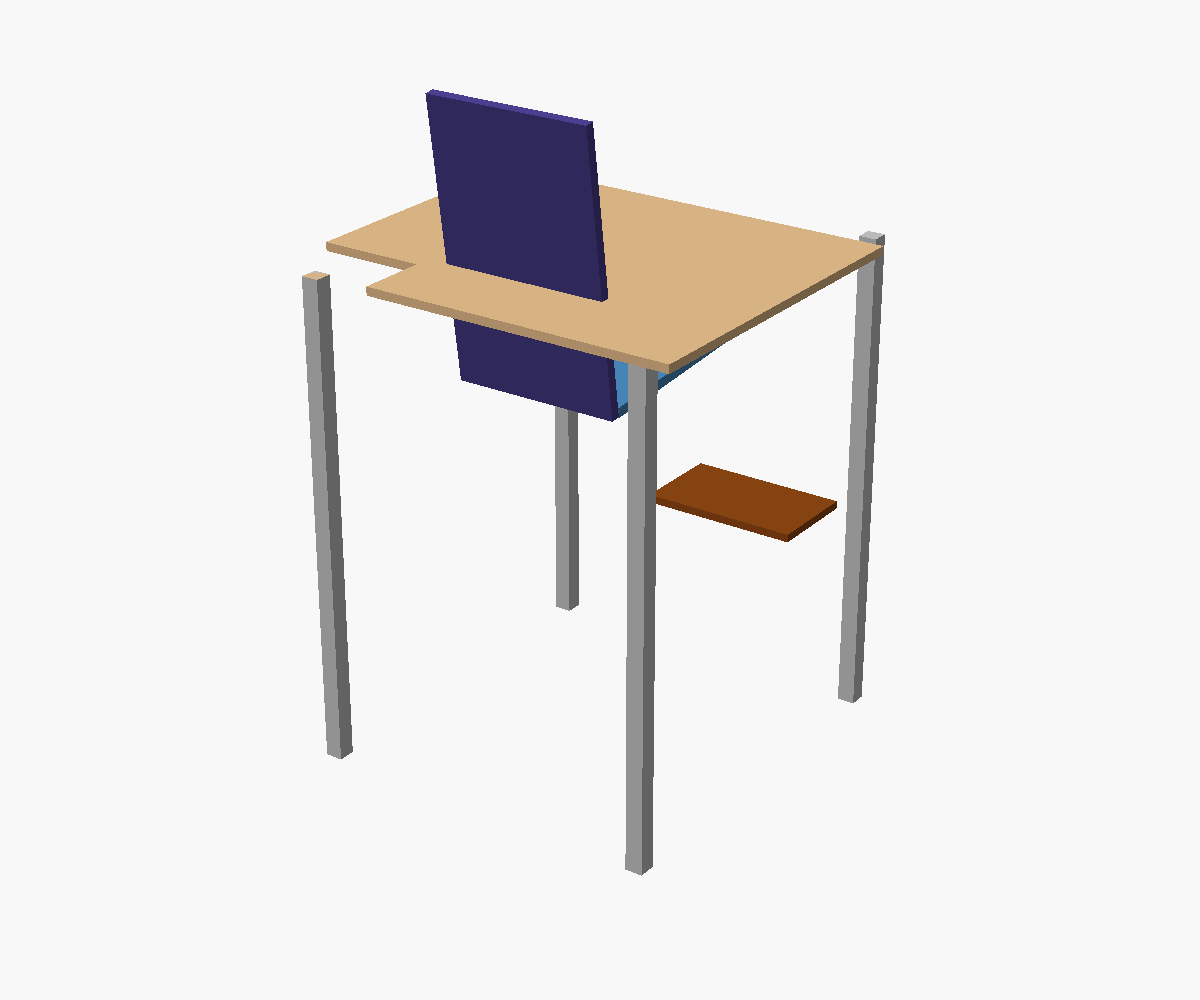
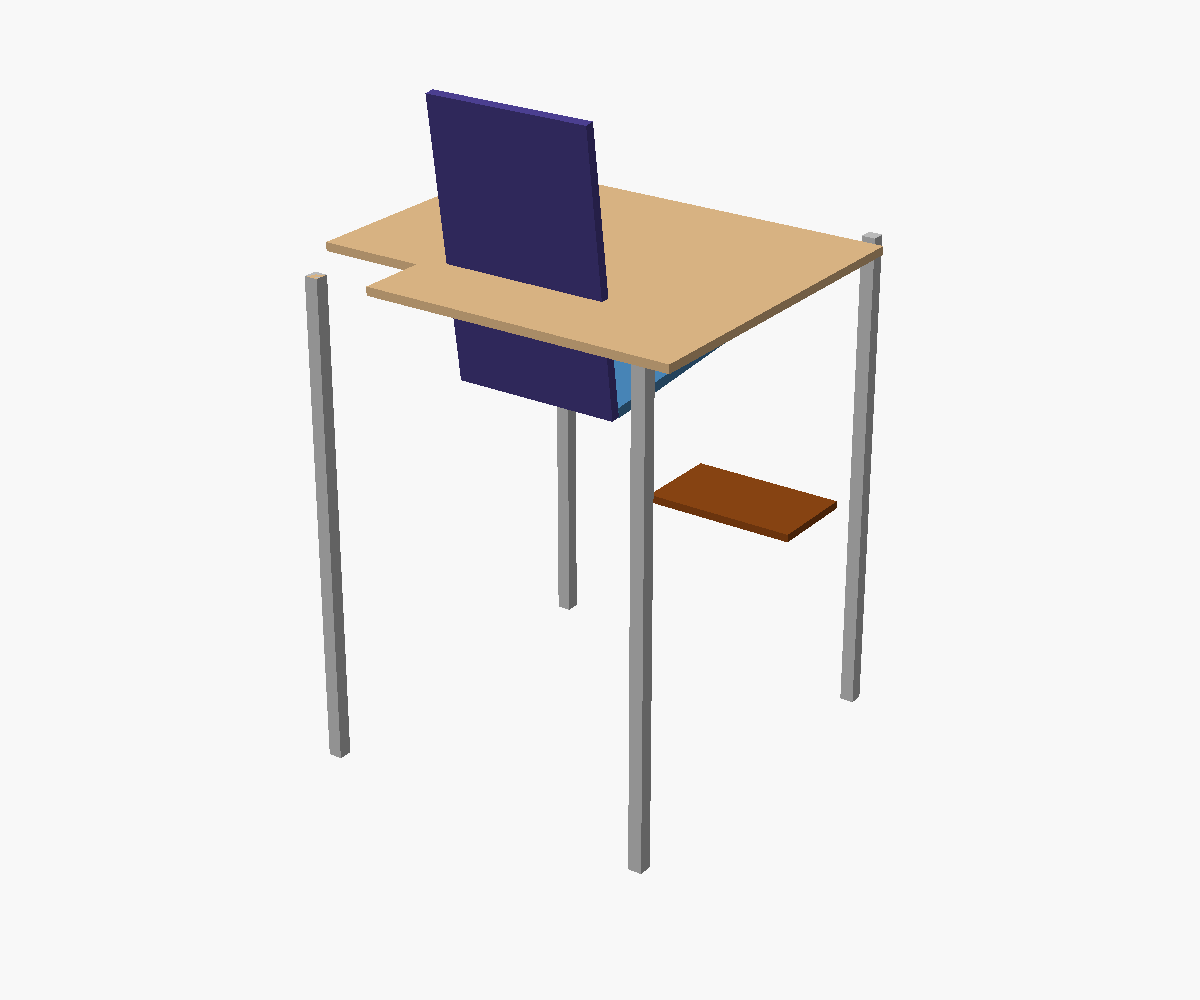
Add .scad conventions and adaptive-highchair research project

diff --git a/adaptive-highchair/OFF_THE_SHELF.md b/adaptive-highchair/OFF_THE_SHELF.md
@@ -1,0 +1,67 @@
+# Off-the-shelf parts: adjustment hardware and strap material
+
+Research date: 2026-11-24 (Camoufox). Goal: avoid printing structural spans and
+bespoke hardware. Printed parts should be **brackets, collars, sliders and end
+caps** around stock that can be bought at a hardware store or Amazon.
+
+## Frame options
+
+| Option | Stock / hardware | Where to buy | Adjustment | Notes |
+|---|---|---|---|---|
+| **2020 T-slot extrusion (recommended)** | 20 × 20 mm aluminium extrusion, M5 sliding nuts + bolts, corner brackets | Amazon, Grainger, McMaster ("80/20-compatible"), local metal suppliers | Unlimited bolt positioning along slots — seat height/depth, footrest reach, back and tray height | No tube-fit tolerances; cheap generic extrusion and hardware kits. Printed plates bolt into the slots. Downside: many small fasteners, slot nuts can spin, extrusion is heavier than tube. |
+| 80/20 10-Series | 1" × 1" (25 × 25 mm) T-slot profile, matching nuts/brackets | [Grainger](https://www.grainger.com/product/80-20-T-Slot-Framing-Extrusion-10-2RCP9), [McMaster](https://www.mcmaster.com/80/20-compatible-t-slotted-framing), Amazon | Same as above, more rigid | Better brand support, higher cost. Use if generic 2020 slots prove sloppy. |
+| Telescoping square tube | Outer: [1" SQ × 7/8" ID × 0.063" wall 6063-T52 aluminium](https://www.speedymetals.com/pc-4680-8379-1-sq-wall-sq-tube-6063-t52-aluminum.aspx); inner: 7/8" OD tube; [push-button tube locks](https://www.mcmaster.com/products/push-button-telescoping-tube-locks) or [quick-release pins](https://www.mcmaster.com/products/pins/pin-type~quick-release/) | Metal suppliers, McMaster, Amazon | Discrete steps at drilled hole spacing (25–50 mm) | Fewer parts and lighter, but fit is **not guaranteed**: [Speedy Metals](https://www.speedymetals.com/Information/Telescoping.html) warns OD/ID tolerances and internal weld seams can block telescoping; allow ≥0.010" clearance and expect to sand/finish the inner tube. Printed shims/collars absorb the remaining slop. |
+| Slip-on pipe fittings | [Kee Klamp](https://www.keesafety.com/safety-railings/kee-klamp/fittings) (galvanised cast iron) / [Kee Lite](https://www.keesafety.com/safety-railings/kee-lite/fittings) (aluminium) + hardware-store pipe | Kee Safety distributors, industrial suppliers | Set at assembly; not meant for frequent resizing | Fast, rigid, no welding. Good for the static lower frame; use slotted printed plates where adjustment is needed. |
+
+**Recommendation:** 2020 extrusion for the vertical posts and cross rails, with
+printed clamp plates and M5 hardware. It turns "size adjustment" into loosening
+a bolt and sliding a bracket — no drilling, no tolerance-fitting, no custom
+parts beyond the printed interface. Keep the telescoping-tube option as a
+fallback if weight or cost dominates.
+
+## Size-adjustment features to build
+
+- **Seat height:** post-mounted seat bracket slides on the vertical extrusion;
+  target 520–570 mm above floor (from `RESEARCH.md`).
+- **Seat depth / width:** printed insert pans or sliding side plates; 8–12"
+  usable width, 9–12" depth.
+- **Footrest:** separate slider on the front posts, adjustable in height
+  (110–380 mm below seat) and reach.
+- **Back:** vertical slot carrier, 380 mm minimum height above seat, with
+  lateral supports repositionable 140–355 mm apart.
+- **Tray:** boom or arm brackets with height adjustment; tray is flat stock,
+  not a large print.
+- **Tilt / recline:** printed slotted arc plate + M5 bolt, 15° forward to
+  25° back as the target envelope.
+- **Reusable hardware:** M5 T-nuts/bolts, 1/4" quick-release pins with lanyards,
+  Nyloc nuts on pivot points.
+
+## Strap material
+
+| Material | Properties | Availability | Use here |
+|---|---|---|---|
+| **1" nylon webbing** | Highest strength of the common webbings (~3× polypropylene), excellent abrasion resistance and shock absorption; absorbs water and stretches slightly when wet; UV degrades over time | [Walmart kit: 6 yd × 1" webbing, 6 side-release buckles, 12 tri-glides, 6 D-rings, ~$15](https://www.walmart.com/ip/Buckles-Strap-1-Inch-Nylon-Webbing-Straps-6-Yards-Quick-Side-Release-Plastic-Buckles-Dual-Adjustable-6-Pack-Tri-Glide-Slide-Clip-12-PCS-Metal-D-Rings/13076257682), Amazon equivalents ([6K+/month sold](https://www.amazon.com/side-release-buckle-1-inch/s?k=side+release+buckle+1+inch)) | Restraint webbing and high-wear straps. 25 mm width matches the 1" buckle ecosystem. |
+| Polypropylene webbing | Lighter, water-resistant/buoyant, UV-stable, low stretch; lower strength and poorer abrasion resistance | Same kits and fabric stores | Non-critical straps: tray retention, footrest, storage. |
+| Polyester seatbelt webbing | Low stretch, good UV resistance, wide (2") and common | Auto parts / Amazon | Pelvic or lap belt if a wider, lower-stretch strap is wanted. |
+| **Universal 5-point high-chair harness** | Complete, adjustable, washable replacement belt; widely compatible with Graco and most 5-point chairs | [Amazon search](https://www.amazon.com/s?k=5+point+harness+straps), baby-gear retailers | **Preferred for the actual restraint.** Buying a finished harness avoids relying on DIY stitching and untested buckles. |
+
+Material comparison source: [National Webbing](https://www.nationalwebbing.com/nylon-webbing-articles/nylon-webbing/choosing-between-polypropylene-and-nylon-webbing-96.html)
+(nylon ~3× stronger, better abrasion/shock; polypropylene better in water/UV,
+lighter, lower stretch).
+
+## Safety / verification still required
+
+- A webbing kit or buckle is **not** a certified child restraint. Use a
+  commercial replacement harness for anything beyond a fit prototype.
+- Printed clamp plates and slot nuts need proof-load testing; T-slot joint
+  strength depends on profile, nut and bolt torque.
+- Check strap width against printed slot geometry (25 mm nominal, with
+  clearance) before cutting.
+- Keep all harness/pivot hardware captured (Nyloc, washers, lanyards).
+
+## Next actions
+
+1. Price 2020 extrusion + M5 kit locally; confirm 25 mm webbing fits the printed slots.
+2. Choose the commercial harness to design anchor geometry around.
+3. Add `FRAME_PROFILE = 20` and slot/pitch parameters to `params.scad`.
+4. Prototype one printed T-slot clamp plate and one tilt plate before the full set.

diff --git a/README.md b/README.md
@@ -1,35 +1,13 @@
 # 3D Printing
 
-OpenSCAD-first repository for 3D-printable designs. Source of truth is `.scad`
-(or a parametric Python builder where the geometry is procedural); STL/3MF files
-are build artifacts kept alongside the source so parts can be printed without a
-rebuild.
-
-## Projects
-
-| Project | What it is | Print files |
-|---|---|---|
-| [`adaptive-highchair/`](adaptive-highchair/) | Parametric adaptive high-chair concept (research/blockout) | — (render only) |
-| [`hex-ramp/`](hex-ramp/) | 18 in half-ramp lightened with a tileable hex through-hole lattice | `ramp_half_hex.stl`, `ramp_half_hex.3mf` |
-| [`hex-ramp-clip/`](hex-ramp-clip/) | Two-peg seam clip that joins two 228.6 mm hex ramp halves into the full 18 in ramp | `stl/hex_ramp_clip_{tight,medium,loose}.stl` |
-| [`fishtank-gantry/`](fishtank-gantry/) | Rim-mounted gantry that carries a float valve and siphon hose over a fish tank | `fishtank-gantry.3mf`, `stl/*.stl` |
-| [`rocket-shelf/`](rocket-shelf/) | Two-part magnetic shelf (body + magnet-pocket shelf) derived from the Rocket Shelf System | `stl/ref_obj*.stl` (reference meshes) |
-| [`rocket-toniebox-holder/`](rocket-toniebox-holder/) | Replacement magnet discs (Ø36 × 2.8 mm) for the Rocket Toniebox holder | `discs_magnet.stl`, `rocket-toniebox-holder.3mf` |
-| [`multiboard-mm/`](multiboard-mm/) | Stacked multi-material MultiBoard print process + interface geometry | `interface_0p2.stl` |
-| [`fan-adapter-80-to-72x28/`](fan-adapter-80-to-72x28/) | 80 mm case fan → 72 × 28 mm right-angle duct adapter | `fixed/fan_adapter_fixed.stl`, `handoff/fan_adapter_light.stl` |
-| [`fan-adapter-to-rook/`](fan-adapter-to-rook/) | Self-contained handoff bundle of the final fan-adapter files | `stl/fan_adapter.stl` |
-| [`siphon-strainer/`](siphon-strainer/) | Threaded siphon strainer and tube adapters | `stl/strainer-nosupport.stl`, `stl/adapter-threaded-*.stl` |
+OpenSCAD-first repository for 3D-printable designs. Source of truth is `.scad`;
+STL/3MF files are build artifacts.
 
 ## Layout
 
 ```
 templates/            starter .scad files for new parts
-scripts/              repository tooling (project import)
-<project-name>/       one directory per project, lowercase-hyphenated
-  README.md           what it is, how it prints, how to rebuild
-  *.scad              parametric source
-  *.py                procedural build / analysis scripts
-  stl/, preview/      exported meshes and renders
+adaptive-highchair/   parametric adaptive high-chair project
 ```
 
 ## Conventions
@@ -40,12 +18,6 @@ scripts/              repository tooling (project import)
 - Parameters use `snake_case`; named constants use `UPPER_SNAKE_CASE`.
 - Export STLs only after the design renders cleanly (`F6`). Do not hand-edit
   STLs.
-- Commit source **and** the final print-ready `.stl`/`.3mf`. Do not commit
-  Bambu Studio build output (`build/`, `*.gcode`, `*.gcode.3mf`), slicing
-  intermediates, or extracted 3MF trees — see `.gitignore`.
-- If a design is derived from a downloaded model, say so in the project README
-  and record the original file name; do not commit third-party source meshes
-  unless the licence allows it.
 - Safety-critical projects carry a prominent scope/disclaimer note in their
   README. A rendered model is not a tested product.
 
@@ -53,13 +25,3 @@ scripts/              repository tooling (project import)
 
 - [OpenSCAD](https://openscad.org/) (stable or snapshot)
 - Optional: `openscad -o part.stl part.scad` for headless export
-- Bambu Studio for slicing; the CLI (`--slice 1 --outputdir …`) is enough for
-  headless verification
-
-## Adding a project
-
-See [`AGENTS.md`](AGENTS.md) for the checklist, or run:
-
-```sh
-scripts/import-project.sh ~/opencode-sessions/my-new-part
-```

diff --git a/adaptive-highchair/DESIGN_NOTES.md b/adaptive-highchair/DESIGN_NOTES.md
@@ -18,8 +18,12 @@
 
 ## Architecture
 
-1. **Frame** — square tube (planned 25 mm), joined by printed clamp collars.
-   Keeps printed volume small and avoids printing long structural spans.
+Revised 2026-11-24 after `OFF_THE_SHELF.md` research: the frame stock is now
+**20 × 20 mm T-slot extrusion** with M5 sliding nuts, not welded square tube.
+Size changes become bolt repositioning instead of drilling or tube fitting.
+
+1. **Frame** — off-the-shelf 2020 extrusion posts and rails, joined by printed
+   clamp plates. Keeps printed volume small and avoids printing long spans.
 2. **Seat module** — printed pan with slots for depth and width inserts;
    pivots on the frame for tilt.
 3. **Back module** — printed panel carrier with vertical slots for back
@@ -32,11 +36,12 @@
 
 ## Open questions
 
-- Which tube/wood stock size is available locally?
+- Confirm local supply and price of 2020 extrusion + M5 sliding-nut kits.
+- Which commercial 5-point harness to design the anchors around (25 mm webbing).
 - Target growth range: 6–36 months only, or extend to Rifton-style paediatric
   sizing?
 - Folding/stacking needed, or static frame acceptable?
-- Harness hardware source and required proof-load factor.
+- Required proof-load factor for T-slot joints and printed clamp plates.
 - Print material: PETG for brackets vs. PA/GF for load-bearing clamps.
 
 ## Next steps

diff --git a/adaptive-highchair/README.md b/adaptive-highchair/README.md
@@ -12,6 +12,7 @@ off-the-shelf tube/wood stock, rather than a fully printed chair.
 ## Files
 
 - `RESEARCH.md` — commercial product specs and extracted design inputs
+- `OFF_THE_SHELF.md` — frame hardware, size-adjustment parts, strap materials
 - `DESIGN_NOTES.md` — requirements and planned architecture
 - `params.scad` — all design dimensions (mm), edit this first
 - `adaptive-highchair.scad` — concept geometry; `include`s `params.scad`
